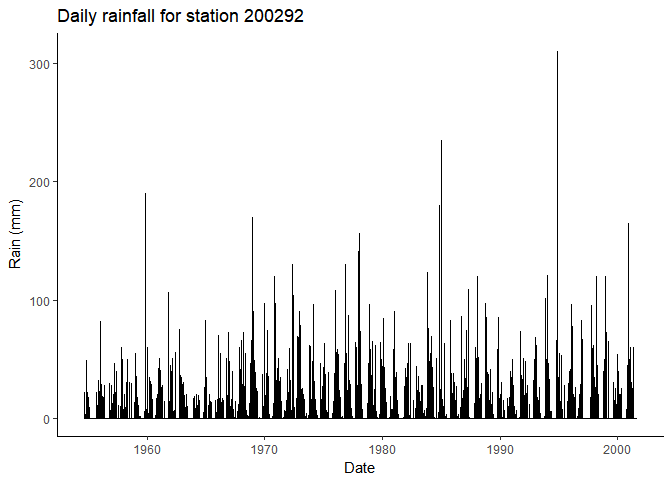
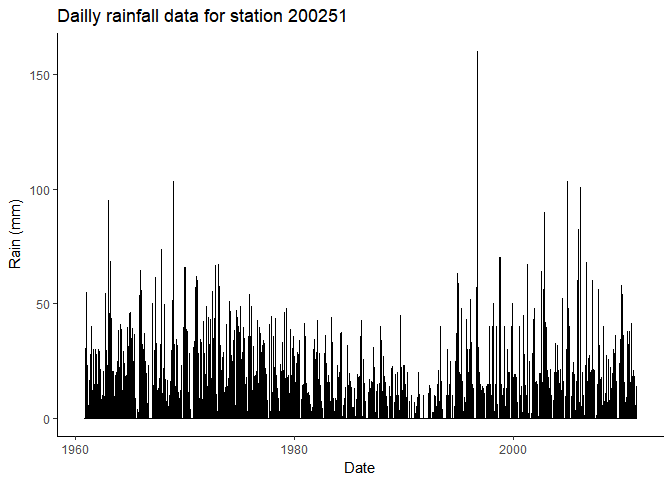
redo readme

diff --git a/README.md b/README.md
@@ -5,24 +5,45 @@
 hydroscoper
 ===========
 
-The goal of **hydroscoper** is to provide an interface to the Greek National Databank for Hydrological and Meteorological Information, [Hydroscope](http://www.hydroscope.gr/). It provides functions for downloading stations and time series data.
+`hydroscoper` is an R interface to the Greek National Databank for Hydrological and Meteorological Information, [Hydroscope](http://www.hydroscope.gr/). It covers most of Hydroscope's sources and provides functions to transform these untidy data sets into tidy dataframes.
 
-The stations and time series data in Hydroscope are in Greek, so this package transliterates the Unicode text to Latin, and translates various Greek terms to English. Finally, the **hydroscoper** provides a function to convert raw time series' data into a tidy dataframe.
+The Hydroscope's data sets are in Greek, thus limiting their usefulness. `hydroscoper` transliterates the Greek Unicode text to Latin, and translates various Greek terms to English.
+
+Data sources in hydroscoper
+---------------------------
+
+-   Ministry of Environment and Energy, <http://kyy.hydroscope.gr/>
+-   Ministry of Rural Development and Food, <http://ypaat.hydroscope.gr/>
+-   National Meteorological Service, <http://emy.hydroscope.gr/>
+
+The front end for the data sources of Greek Public Power Corporation, <http://emy.hydroscope.gr/>, uses an old format and it is not currently supported.
+
+Note that only the two Ministries allow freely to download time series values.
 
 Installation
 ------------
 
-You can install **hydroscoper** from github with:
+You can install the development version from GitHub with:
 
 ``` r
 # install.packages("devtools")
 devtools::install_github("kvantas/hydroscoper")
 ```
 
-Stations list
--------------
+Using hydroscoper
+-----------------
 
-This is a basic example which shows you how to get the stations list from the Hydroscope's Ministry of Environment and Energy database (subdomain **kyy**):
+The available functions that are provided by `hydroscoper` are:
+
+-   `get_stations` to retrieve a tidy dataframe with stations' data for a given data source.
+-   `get_coords` to retrieve the coordinates and elevation for a given station.
+-   `get_timeseries` to retriece a tidy dataframe with a station's time series.
+-   `get_data` to retriece a tidy dataframe with a time series' values.
+
+Example
+-------
+
+This is a basic example which shows you how to get the stations list from the Ministry of Environment and Energy:
 
 ``` r
 library(hydroscoper)
@@ -37,66 +58,63 @@ head(stations[c("StationID", "WaterDivisionID", "Name", "Owner", "Type")])
 #> 6    200292            GR13  AG. GEORGIOS min_env meteo_station
 ```
 
-Stations coordinates
---------------------
-
-With the following code you can get the coordinates and the elevation for the stations from the Water Division of Crete, GR13:
+Using the above data you can get the coordinates and the elevation for a specific station, **200251**:
 
 ``` r
-library(plyr)
-crete_stations <-subset(stations, WaterDivisionID == "GR13")
-crete_coords <- ldply(crete_stations$StationID, function(x) {
-  get_coords(subdomain = "kyy", stationID = x)})
-#> Warning: Failed to parse url: http://kyy.hydroscope.gr/stations/d/501032/
-head(crete_coords)
-#>   StationID     Long      Lat Elevation
-#> 1    200280 24.45425 35.24414     298.6
-#> 2    501032       NA       NA        NA
-#> 3    200292 25.48357 35.16758     836.4
-#> 4    501054 24.13917 35.44500     850.0
-#> 5    200288 25.03400 35.14504     563.6
-#> 6    501033 25.71472 35.19940      30.0
+crds <-  get_coords(subdomain = "kyy", stationID = 200251)
+crds
+#>   StationID     Long    Lat Elevation
+#> 1    200251 25.91659 40.932       114
 ```
 
-Time series list
-----------------
-
-To get the time series list in a dataframe from the station **200292** you can use the following code:
+To get the time series from the same station run:
 
 ``` r
 
-ts_data <- get_timeseries(subdomain = "kyy", stationID = 200292)
+ts_data <- get_timeseries(subdomain = "kyy", stationID = 200251)
 ts_data[c("TimeSeriesID", "Variable", "TimeStep", "Unit", "StartDate","EndDate")]
 #>   TimeSeriesID   Variable TimeStep Unit           StartDate
-#> 1         1023       snow      day   mm 1954-09-01 08:00:00
-#> 2         1024 wind_direc variable    ° 1964-05-01 08:00:00
-#> 3         1022   rainfall      day   mm 1954-09-01 08:00:00
-#> 4           78   rainfall    30min   mm 1954-08-30 07:30:00
+#> 1          913       snow      day   mm 1960-11-01 08:00:00
+#> 2          914 wind_direc variable    ° 1967-01-01 08:00:00
+#> 3          912   rainfall      day   mm 1960-11-01 08:00:00
+#> 4         1451   rainfall variable   mm                <NA>
+#> 5         2173   rainfall    month   mm 1980-10-01 00:00:00
 #>               EndDate
-#> 1 1996-12-31 08:00:00
-#> 2 1996-12-31 08:00:00
-#> 3 2001-08-31 01:00:00
-#> 4 1996-12-29 22:00:00
+#> 1 1997-03-31 09:00:00
+#> 2 1997-03-31 09:00:00
+#> 3 2011-04-30 09:00:00
+#> 4                <NA>
+#> 5 2001-03-01 00:00:00
 ```
 
-Raw data
---------
-
-You can get the time series **1022** rainfall data using:
+You can get the time series **912** to a tidy dataframe with:
 
 ``` r
-ts_raw <- get_data(subdomain = "kyy", timeID = 1022)
+df <- get_data(subdomain = "kyy", timeID = 912)
 ```
 
-Let's create a plot for the rainfall data:
+Let's create a plot for these data:
 
 ``` r
 suppressPackageStartupMessages(library(ggplot2))
-ggplot(data = ts_raw, aes(x = Date, y = Value))+
+ggplot(data = df, aes(x = Date, y = Value))+
   geom_line()+
-  labs(title="Daily rainfall for station 200292",
+  labs(title="Dailly rainfall data for station 200251",
        x="Date", y = "Rain (mm)")+
   theme_classic()
 ```
 
 ![](README-plot%20data-1.png)
+
+Meta
+----
+
+-   Please [report any issues or bugs](https://github.com/kvantas/hydroscoper/issues).
+-   Licence:
+    -   All code is licenced MIT
+    -   All data are from the public data sources in <http://www.hydroscope.gr/>
+
+References
+----------
+
+[Hydroscope](http://www.hydroscope.gr/)
